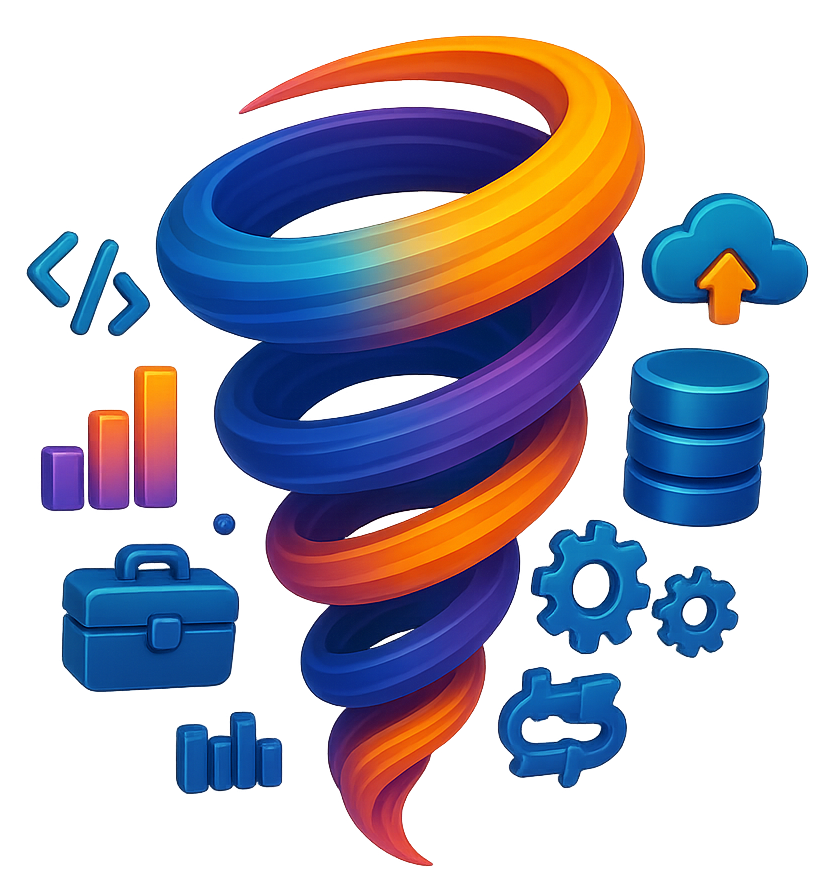
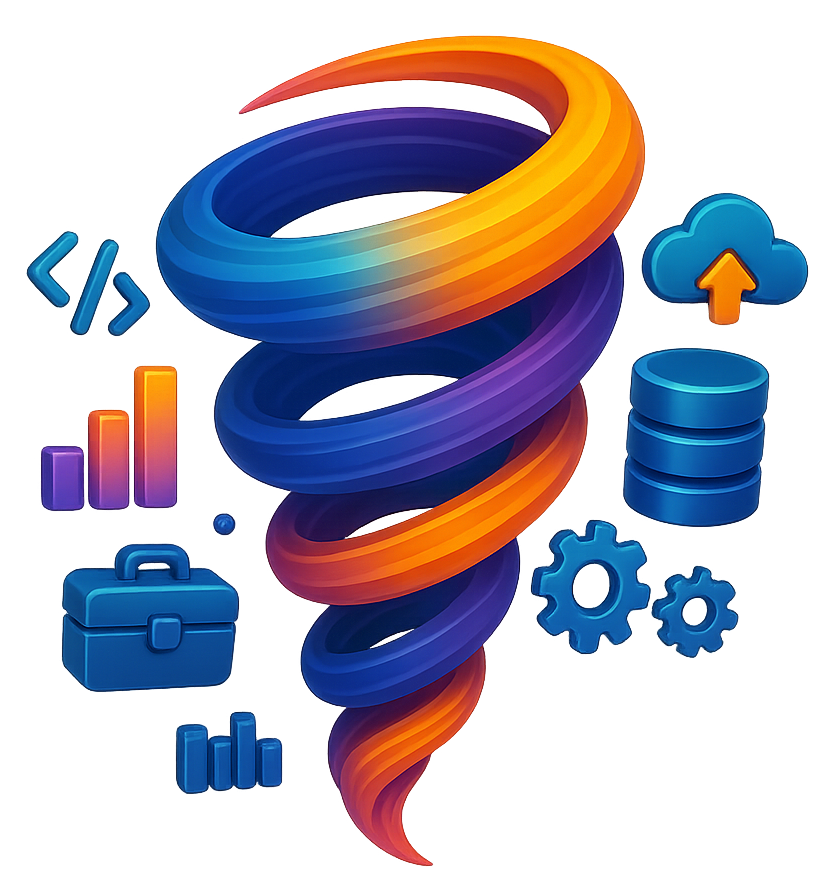
fix: prettify and optimize

Changed region(s): [[0.5902, 0.7414, 0.7455, 0.8959]]

diff --git a/public/index.html b/public/index.html
@@ -9,8 +9,8 @@
             --bg: #0f172a;
             --fg: #e2e8f0;
             --muted: #94a3b8;
-            --accent: #38bdf8;
-            --accent-dark: #041016;
+            --accent: #0ea5e9;
+            --accent-dark: #0c4a6e;
             --border-color: rgba(148, 163, 184, 0.2);
             --border-color-light: rgba(148, 163, 184, 0.15);
             --secondary-bg: rgba(148, 163, 184, 0.15);
@@ -109,6 +109,20 @@
         .hero-text {
             flex: 1;
             min-width: 0;
+        }
+
+        .hero-title {
+            color: #6e3aad;
+            display: inline-block;
+        }
+
+        .hero-title-signature {
+            display: block;
+            font-size: 0.25em;
+            font-weight: 300;
+            margin-top: 0.5em;
+            text-align: right;
+            white-space: nowrap;
         }
 
         .hero .lead {
@@ -280,10 +294,13 @@
 <section class="hero">
     <div class="hero-content">
         <div class="hero-image">
-            <img src="assets/cover.png" alt="My Data Lab Cover" width="400" height="400" loading="eager">
+            <img src="assets/cover.png" alt="My Data Lab Cover" width="837" height="874" loading="eager">
         </div>
         <div class="hero-text">
-            <h1 style="color: #6e3aad">My Data Lab</h1>
+            <h1 class="hero-title">
+                My Data Lab
+                <span class="hero-title-signature">by Inzhenerka.Tech</span>
+            </h1>
             <p class="lead">Персональная лаборатория данных для обучения</p>
         </div>
     </div>
@@ -333,7 +350,7 @@
 
         <section class="mini" id="minio">
             <h3>
-                <img class="icon" src="assets/minio.svg" alt="" width="48" height="48" loading="lazy">
+                <img class="icon" src="assets/minio.png" alt="" width="48" height="48" loading="lazy">
                 MinIO Object Storage
             </h3>
             <p>Локальное объектное хранилище с S3-совместимым API. Храните датасеты, результаты обработки и любые файлы.

diff --git a/README.md b/README.md
@@ -12,9 +12,13 @@
 ## Быстрый старт
 
 1. Установите Docker и Docker Compose.
-2. Запустите:
+2. Клонируйте репозиторий:
    ```bash
-   docker compose up --build
+   git clone https://github.com/Inzhenerka/mydatalab
+   cd mydatalab
    ```
-3. Откройте ссылки из логов для доступа к UI/ноутбукам.
-4. Данные доступны через S3-совместимый эндпоинт MinIO.
+3. Запустите контейнер:
+   ```bash
+   docker compose up
+   ```
+4. Откройте в браузере стартовую страницу с описанием всех сервисов: http://localhost:1111
